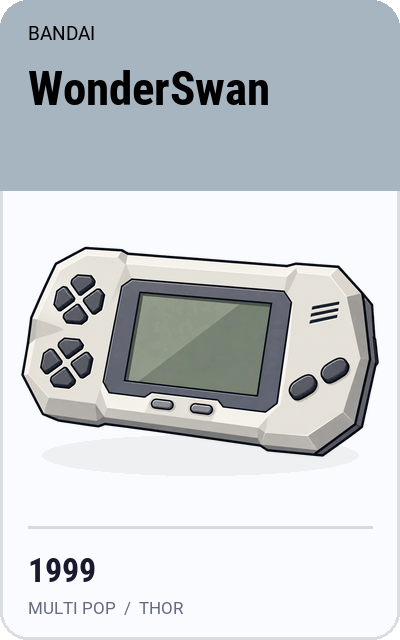
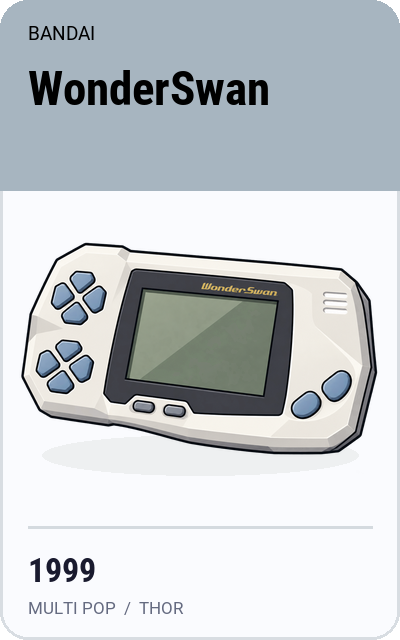
Refresh original monochrome WonderSwan artwork

Changed region(s): [[0.06, 0.375, 0.96, 0.7188]]

diff --git a/systems/thor/README.md b/systems/thor/README.md
@@ -167,7 +167,7 @@ With updates on, an activated Thor checks this repository's latest release at mo
 
 ## Artwork
 
-The 68 artwork entries include Neo Geo Pocket, Neo Geo Pocket Color, PSP, PlayStation Vita, Saturn, PC Engine CD, Sega CD, Virtual Boy, regional variants, arcade platforms, and collections. Each has a distinct palette and matching upper artwork and lower card. These illustrations were created specifically for this theme; the transparent PNG sources are in [`multi-pop-thor/assets/systems`](multi-pop-thor/assets/systems/), and the card and hero PNGs are generated from them. The earlier SVG illustrations remain alongside them as legacy sources. The set also includes Wii, Wii U, Switch, 3DO, Amiga, Atari ST, ZX Spectrum, MSX, WonderSwan, TurboGrafx-16, and TurboGrafx-CD.
+The 68 artwork entries include Neo Geo Pocket, Neo Geo Pocket Color, PSP, PlayStation Vita, Saturn, PC Engine CD, Sega CD, Virtual Boy, regional variants, arcade platforms, and collections. Each has a distinct palette and matching upper artwork and lower card. These illustrations were created specifically for this theme; the transparent PNG sources are in [`multi-pop-thor/assets/systems`](multi-pop-thor/assets/systems/), and the card and hero PNGs are generated from them. The earlier SVG illustrations remain alongside them as legacy sources. The set also includes Wii, Wii U, Switch, 3DO, Amiga, Atari ST, ZX Spectrum, MSX, the original monochrome WonderSwan with its own pearl-white hardware illustration, TurboGrafx-16, and TurboGrafx-CD.
 
 ![All 68 Multi Pop artwork entries](docs/artwork-grid.png)
 
